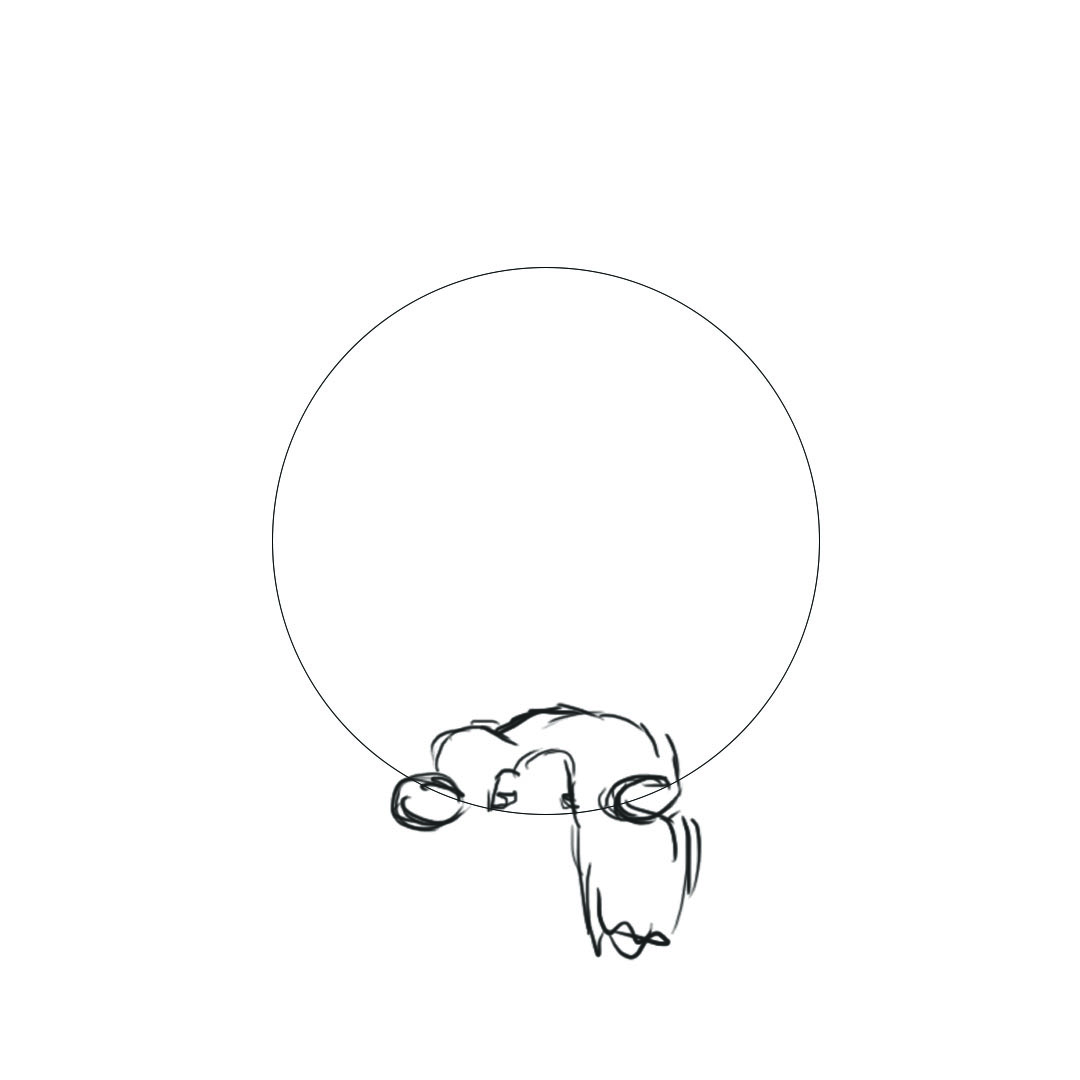
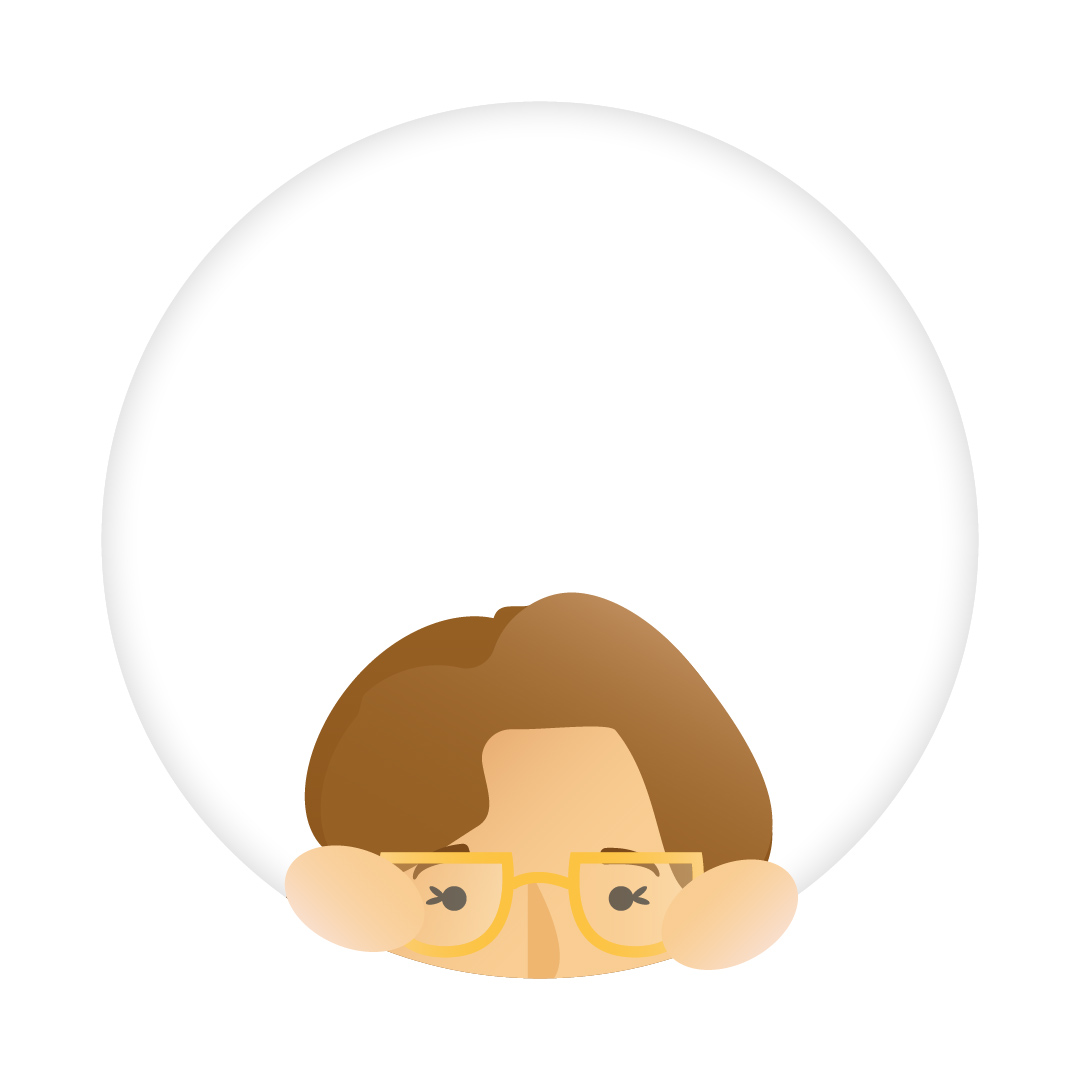
imagechanger

Changed region(s): [[0.2444, 0.55, 0.7639, 0.9167]]

diff --git a/portfolio2/index.html b/portfolio2/index.html
@@ -4,7 +4,7 @@
 <head>
     <title>Jackie Lando</title>
     <!-- Link to css -->
-    <link rel="stylesheet" href="proj2.css">
+    <link rel="stylesheet" type="text/css" href="proj2.css">
     <meta name="viewport" content="width=device-width, initial-scale=1">
     <!-- Get font from google fonts -->
     <link href="https://fonts.googleapis.com/css?family=Dancing+Script|Lato:300|Open+Sans" rel="stylesheet">
@@ -12,7 +12,7 @@
     <link href="https://fonts.googleapis.com/css?family=Montserrat" rel="stylesheet">
     <link href="https://fonts.googleapis.com/css?family=Raleway:400,600" rel="stylesheet">
     <!-- Link to javascript-->
-    <script type = "text/javascript" src = "main.js"></script>
+    <!-- <script type = "text/javascript" src = "main.js"></script> -->
     <style>
     </style>
 </head>
@@ -23,21 +23,22 @@
     <div id = "navigation">
         <div class = "logo"><img src="images/logo.svg" alt="my logo">
         </div>
+        <div class = "pageLink"><a href = "index.html"> About me</a></div>
+        <div class = "pageLink"><a href="index.html">Contact</a></div>
+        <div class = "pageLink"><a href = "index.html">Resume</a></div>
         <div class = "pageLink"><a href = "index.html">Work</a></div>
         <div class = "workPage"><a href= "animations.html" id = "indent">Posters</a></div>
         <div class = "workPage"><a href = "models.html" id = "indent">Models</a></div>
         <div class = "workPage"><a href="doodles.html" id = "indent">Doodles</a></div>
-        <div class = "pageLink"><a href = "index.html"> About me</a></div>
-        <div class = "pageLink"><a href="index.html">Contact</a></div>
-        <div class = "pageLink"><a href = "index.html">Resume</a></div>
-    </div>
-
-    <div class = "profileWrapper">
-        <img class = "peeky" src = "images/peek1.jpg">
-    </div>
-
-
         
+    </div>
+
+    <div class = "pictureContainer">
+        <img id = "peeky" src = "images/peek1.jpg">
+    </div>
+
+    <!-- Link to javascript file -->
+    <script type = "text/javascript" src = "main.js"></script>    
 </body>
 
     </html>

diff --git a/portfolio2/proj2.css b/portfolio2/proj2.css
@@ -14,6 +14,7 @@ flex-direction: column;
 flex-wrap: nowrap;
 /* restrain the container to viewport w & h */
 height: 75vh;
+width: 110px;
 /* give room on top */
 margin-top:0px;
 /* align to left side of container */
@@ -25,9 +26,9 @@ position: fixed;
 padding: 0 20px 20px 20px;
 
 /* for clarity  */
-background-color: blueviolet;
+/* background-color: blueviolet;
 border-style: solid;
-border-color: black;
+border-color: black; */
 
 }
 
@@ -43,7 +44,7 @@ a,
     font-family: 'Raleway', sans-serif;
 
     /* for clarity */
-    background-color: darkgoldenrod;
+    /* background-color: darkgoldenrod; */
 }
 
 /* interaction with links */
@@ -54,13 +55,16 @@ a:hover, a:active{
 
 /* indent and shrink art pages */
 #indent{
+    text-decoration: none;
     font-size: .9rem;
-    padding-left: 30px;
+    color: #bababa;
+
+    /* padding-left: 30px; */
 }
 
 /* center logo */
 .logo{
-align-self: center;
+align-self: flex-start;
 justify-self: flex-start;
 width: 78%
 
@@ -69,7 +73,7 @@ width: 78%
 
 /* ---------- I M A G E   C H A N G E R ---------- */
 
-.profileWrapper {
+.pictureContainer {
     /* background-color: brown; */
     display: flex;
     flex-flow: row wrap;
@@ -80,7 +84,7 @@ width: 78%
 }
 
 
-.peeky{
+#peeky{
     width: 400px;
     align-self: center;
 }

diff --git a/portfolio2/main.js b/portfolio2/main.js
@@ -4,10 +4,11 @@
 // profile page - click event
 
 // select image from HTML doc
-var myImage = document.querySelector('img.peeky');
+var myImage = document.querySelector("#peeky");
 
 //create function with if statement to change src image when clicked
 myImage.onclick = function(){
+    console.log("I'm clicked!");
     //mySrc will be equal to source string for img
     var mySrc = myImage.getAttribute('src');
     //if the src string is = to image 1 when clicked
